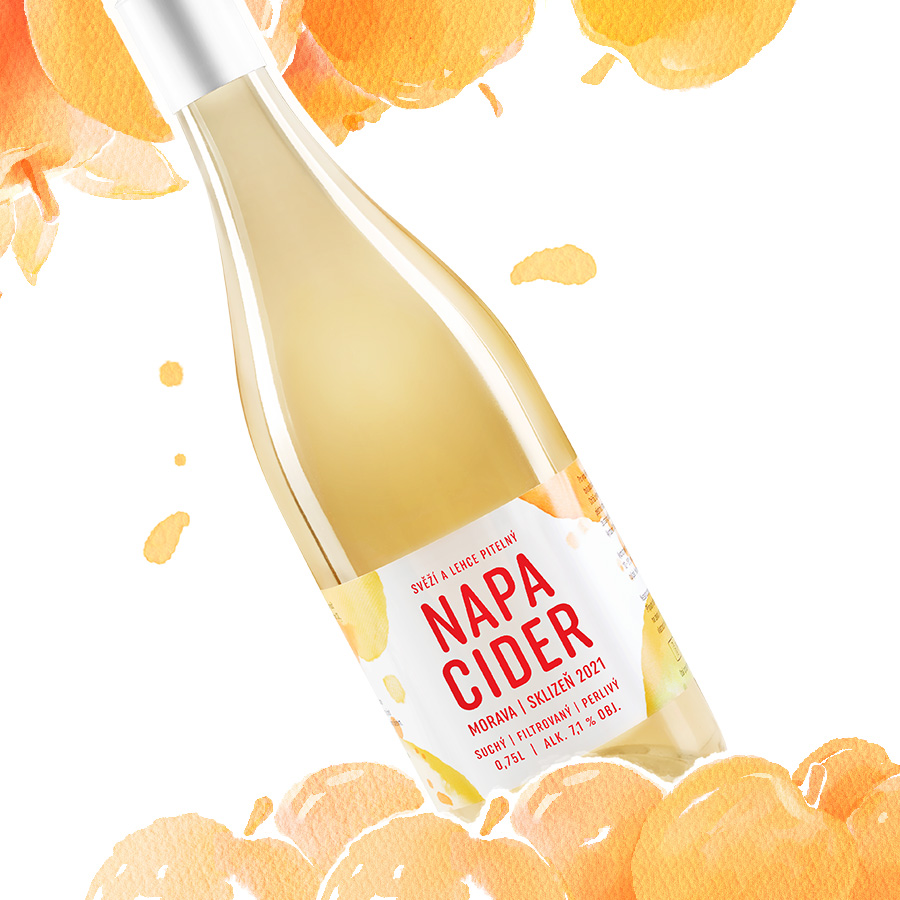
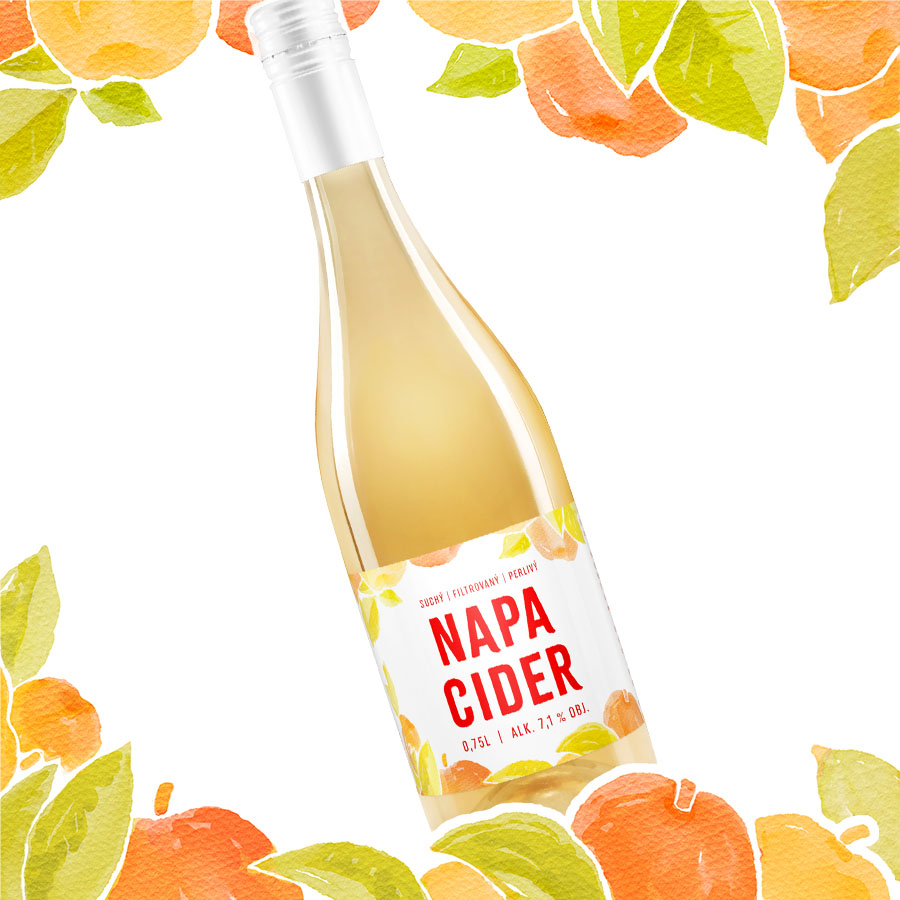
updat

diff --git a/index.html b/index.html
@@ -83,7 +83,7 @@
         <span class="intro-text--line-1">etuare</span>
         <span class="intro-text--line-2">grafické a&nbsp;produkční studio</span>
       </div>
-      <p class="intro-text--paragraph add-nbsp">„I v zemi zaslíbené je potřeba lidské práce. My tvoříme sny o dobrém jídle a pití.“ — Praotec Etuare</p>
+      <p class="intro-text--paragraph add-nbsp">„Tvoříme sny o dobrém jídle a pití.“ — Praotec Etuare</p>
     </div>
 
     <div class="section home--section--works">
@@ -110,9 +110,10 @@
       </div>
       <h2 class="home--section--services--heading">Co pro vás můžeme udělat?</h2>
       <p class="home--section--services--text">
-        Nabízíme škálů řešení od jednotlivostí jako design etiket, katalogů či webových stránek až po kompletní designové řešení firemní identity.
+        Vy nám řeknete co potřebujete a my navrhneme odpovídající řešení. <br>
+        Od jednotlivostí až po kompletní firemní identitu.
       </p>
-        <!-- unused probably forever, this was filled with JS via "new ServiceCardSmall(key)" construct -->
+        <!-- unused probably forever, this was filled with JS via "new ServiceCardSmall(key)" construct ↓ -->
         <!--  <div class="intro-text--services"> </div> -->
 
         <button class="intro-text--button" onclick="Page.applyState({page: 'services'});">
@@ -122,7 +123,7 @@
     </div>
 
     <!-- This is hidden cos it was kind of duplicit -->
-    <div class="section home--section--about hidden">
+    <!-- <div class="section home--section--about">
       <h1 class="home--section--about--heading">O nás</h1>
       <p class="home--section--about--text add-nbsp">Grafické a produkční studio ze Zlína, <br> které vám pomůže s vaší firemní identitou i propagací.
       </p>
@@ -132,7 +133,7 @@
           <div class="button-arrow right dark"></div>
         </button>
       </div>
-    </div>
+    </div> -->
   </div> <!-- page--home -->
 
 
@@ -145,14 +146,13 @@
     <div class="section services--section--intro">
       <h1 class="page-heading page-heading--services">Naše služby</h1>
       <div class="services--intro-text">
-        <p>
-          <span>Poskytujeme služby týkající se designu, propagace produktů a firemní identity. Dokážeme zařídit projekt od prvních návrhů až k finální realizaci.</span>
+        <p>Nejvíce nás baví obaly a etikety, ale navrhneme pro vás i loga, tiskoviny, reklamní materiály nebo www stránky. Zařídíme projekty od prvních návrhů až k finální realizaci.
         </p>
         <div></div>
-        <h3>Jak pracujeme</h3>
+        <!-- <h3>Jak pracujeme</h3>
         <p>
           Vytváříme designová řešení na míru. Vy nám řeknete co potřebujete, a my navrhneme odpovídající řešení. Každý však potřebuje něco jiného a vše je na domluvě, a tak nabízíme konzultace zdarma, pokud si nejste jistí tím co všechno vaše firma potřebuje, nebo jestli jsme pro vás ti praví. Stačí se ozvat.
-        </p>
+        </p> -->
       </div>
     </div>
 
@@ -163,7 +163,7 @@
     <div class="section services--section--we-dont-do-it-all">
       <h2>Neděláme všechno, ale...</h2>
       <p style="max-width: 720px;">
-        Dokážeme zajistit spolupráci s&nbsp;fotografy, ilustrátory, programátory, tiskárnami a&nbsp;dále; vše podle potřeb projektu, abyste měli jistotu, že se vše dokončí včas a&nbsp;správně.
+        Dokážeme zajistit spolupráci s&nbsp;fotografy, ilustrátory, programátory, tiskárnami atd. Vše podle potřeb projektu, abyste měli jistotu, že se vše dokončí správně a&nbsp;včas.
       </p>
       <div class="home--section--about--buttons">
         <button onclick="Page.applyState({page: 'about'})">
@@ -189,7 +189,6 @@
     <div class="section project--section--intro">
        <!-- JS --> 
     </div>
-
   </div> <!-- page--project -->
 
 
@@ -204,10 +203,10 @@
       </div>
       <h1 class="page-heading--about">O nás</h1>
       <div class="about--intro-text">
-        <p class="add-nbsp">Grafické a produkční studio ze Zlína. Nenechte se však se zmást; zlí nejsme. Pro naše klienty jsme tu již 22 let a ještě to nehodláme zabalit.
+        <p class="add-nbsp">Máme 20 let zkušeností a dlohodobé spolupráce s různého druhu - vinařství, výrobci kosmetiky, mražená zelenina, nealko/alko nápoje. Vše je samozřejmě na domluvě, a tak nabízíme konzultace zdarma, pokud si nejste jistí tím, co všechno potřebujete.
         </p>
-        <p class="add-nbsp">Studio Etuare vzniklo v roce 2004 s týmem Zbyněk Trvaj, Zdeněk Jurášek, David Bednařík, Jan Norek.
-        </p>
+        <!-- <p class="add-nbsp">Studio Etuare vzniklo v roce 2004 s týmem Zbyněk Trvaj, Zdeněk Jurášek, David Bednařík, Jan Norek.
+        </p> -->
       </div>
     </div>
 
@@ -225,16 +224,16 @@
 
     <div class="section about--section--contractors">
       <h2 class="page--heading--about" >Nejsme na to sami</h2>
-      <p style="max-width: 720px;">
+      <!-- <p style="max-width: 720px;">
         Spolupracujeme s&nbsp;fotografy, ilustrátory, tiskárnami a&nbsp;dále; vše podle potřeb projektu, abychom měli jistotu, že se vše dokončí správně a&nbsp;včas.
-      </p>
+      </p> -->
     </div>
 
     <div class="about--team--segment-2">
-      <div class="team--role--text hidden">
+      <!-- <div class="team--role--text">
         <h2 class="team--role--title">Externisté</h2>
         <p class="team--role--description add-nbsp">Nemají sice židli v kanceláři, ale stejně je považujeme za hodnotné kolegy a platíme jim za jejich práci.</p>
-      </div>
+      </div> -->
       <div class="about--people-container--contractor"> <!-- JS --> </div>
     </div>
 
@@ -260,7 +259,7 @@
 
   <footer style="display: none;">
     <h2 class="footer-heading">Kontakt</h2>
-    <p class="footer--description add-nbsp">U nás za dotaz nic nedáte. Obraťte se na nás s nezávazným dotazem či poptávkou a třeba se domluvíme, jestli jsme pro vás ti praví.
+    <p class="footer--description add-nbsp">Za dotaz nic nedáte. Obraťte se na nás s nezávaznou poptávkou a domluvíme se, jestli jsme pro vás ti praví. A nebo se u nás můžete stavit, pokud to máte po cestě (kafe zdarma, samozřejmě).
     </p>
     <div class="footer--content">
       <div class="footer--content--contacts" id="link--contact">

diff --git a/js/services.js b/js/services.js
@@ -3,8 +3,8 @@ class Services {
     "Obalový design": {
       key: "obalovy_design",
       blurb: "Specializujeme se na obaly pro potraviny, nápoje a kosmetiku.",
-      description: 
-      `Obalíme vaše obaly alobalem abychom je ochránili před útokem mimozemšťanů a reptiliánů.
+      description:
+      `Navrhneme design pro vaše obaly.
       • grafický návrh nových obalů
       • redesign stávajících obalů
       • návrh prodejních kartonů a stojanů
@@ -21,6 +21,7 @@ class Services {
         {src: "../images/carousel/obal_5.jpg",  projectName: "adria_gold", hasBrightBG: true, hasBrightSubject: true},
         {src: "../images/carousel/obal_10.jpg", projectName: "la_food", hasBrightBG: true},
         {src: "../images/carousel/obal_12.jpg", projectName: "", hasBrightBG: true},
+        {src: "../images/carousel/obal_13.jpg", projectName: "", hasBrightBG: false},
       ]
     },
 
@@ -33,7 +34,7 @@ class Services {
       `Navrhneme etiketu pro váš produkt, nebo sérii produktů.
       • etikety na láhve
       • dárkové krabičky
-      • + případná vizualizace produktů`,
+      • vizualizace produktů`,
       examples: [
         {src: "../images/carousel/obal_2.jpg",  projectName: "martenz", hasBrightBG: true},
         {src: "../images/carousel/etik_2.jpg",  projectName: "martenz", hasBrightBG: true},
@@ -53,7 +54,7 @@ class Services {
       key: "graficky_design",
       blurb: "Navrhneme letáky, katalogy, plakáty a další...",
       description: 
-      `Vytvoříme grafický návrh a správně připravíme tisková data.
+      `Vytvoříme grafický návrh a připravíme tisková data.
       • firemní tiskoviny - katalogy, nabídkové listy, vizitky atd.
       • inzeráty, billboardy, plakáty
       • prezentační stánky, polepy vozidel, POS materiály`,
@@ -76,7 +77,7 @@ class Services {
       key: "logo_design",
       blurb: "Vytvoříme logo pro vaši firmu či produkt.",
       description: 
-      `Navrhneme vám nebo zmodernizujeme:
+      `Navrhneme vám nebo zmodernizujeme
       • firemní logo a identitu
       • produktové logo
       • logo vaší akce`,
@@ -134,7 +135,7 @@ class Services {
       key: "3d_vizualizace",
       blurb: "Vytvoříme 3D vizualizace na míru pro jakýkoliv produkt.",
       description: 
-      `Připravíme vizualizace vašich produktů.
+      `Připravíme vizualizace vašich produktů
       • do katalogů
       • pro web a propagaci
       • pro další aplikace - roll-upy, firemní auta, stánky`,
@@ -155,7 +156,7 @@ class Services {
       description: 
       `Vytvoříme originální ilustrace pro váš projekt.
       • digitální ilustrace - lineart, airbrush, comicbook-style, corporate
-      • analogové ilustrace - akvarel, tužka, perokresba`,
+      • analogové ilustrace - akvarel, tužka, pastel, perokresba`,
       examples: [
         {src: "images/carousel/ilu_6.jpg",  projectName: "kralovske_marmelady", hasBrightBG: true,  tooltip: "Ilustrace pro značku marmelád"},
         {src: "images/carousel/ilu_4.jpg",  projectName: "kovacs",              hasBrightBG: true,  tooltip: "Ilustrace pro etiketu vína"},

diff --git a/js/project.js b/js/project.js
@@ -49,6 +49,7 @@ class Project {
       label.append(labelBorder)
 
 
+
       if(object.t === "heading") {
         const h = Create("h2", {c: "project--sub-heading", t: object.h})
         container.append(h)
@@ -166,6 +167,11 @@ class Project {
         /* add label */
         if(object.l) container.append(label)
       }
+
+      if(object.c !== undefined) {
+        container.style.backgroundColor = object.c
+      }
+
 
       /* THIS HAPPENS FOR EVERY BLOCK */
       content.append(container)
@@ -498,6 +504,15 @@ class Project {
           d: "column",
           f: ["hranolky_light.jpg", "hranolky_dark.jpg"]
         },
+        {
+          t: "heading",
+          h: "Polep kamionu",
+        },
+        {
+          t: "image",
+          d: "column",
+          f: ["kamion.jpg"]
+        },
       ],
     },
 
@@ -651,13 +666,15 @@ class Project {
     "napacider": {
       featured: true, brightOnHover: false,
       titleShort: "Napa cider",
-      title: "Napa cider - Řemeslný cider z Moravy",
+      title: "Napa cider",
       descriptionShort: "Vizuální identita pro řemeslný cider",
       description: "Napa cider je příjemné alkoholické letní občerstvení. Osvěžující dávka ovocné chuti, nic komplikovaného.  Skvělý pro posezení ve dvou na zahradě i večírek s přáteli. \n \n Pro Napa cider jsme dělali všechno, vlastně i ten cider, do kterého se pan Zbyněk pustil ve volném čase, když zrovna neměl co na práci.",
       content: [
         {
-          t: "image",
-          f: ["logo.png"],
+          t: "image_2",
+          l: "",
+          d: "column",
+          f: ["product_photo_sunny.jpg", "product_photo_studio.jpg"]
         },
         {
           t: "image_2",
@@ -680,6 +697,7 @@ class Project {
         },
         {
           t: "video",
+          c: "white",
           l: "Reklamní 'reels' video pro upoutání pozornosti, použití je možné na FB i Instagramu.",
           f: "video.mp4"
         },
@@ -803,6 +821,24 @@ class Project {
           o: {gap: "2px"},
           f: ["katalog_retail_1.jpg", "katalog_retail_2.jpg"],
           l: "Katalog pro retail/koncové zákazníky",
+        },
+        {
+          t: "heading",
+          h: "Další materiály"
+        },
+        {
+          t: "image_2",
+          d: "column",
+          o: {gap: "2px"},
+          f: ["kamion_bok_ryze.jpg", "kamion_bok_lusteniny.jpg"],
+          l: "",
+        },
+        {
+          t: "image_2",
+          d: "row",
+          o: {gap: "2px"},
+          f: ["stanek_2026_1.jpg", "stanek_2026_2.jpg"],
+          l: "",
         },
       ]
     },

diff --git a/style.css b/style.css
@@ -1175,7 +1175,7 @@ p.footer--description {
 /* Page services - SERVICE CARD */
 
 :root {
-  --service-card--width: min(1280px, 100vw);
+  --service-card--width: min(1280px, 100vw - 20px);
   --service-card--height: calc(var(--service-card--width) / 2.2);
 }
 
@@ -1921,7 +1921,9 @@ p.footer--description {
 }
 
 .project--video {
-  width: 50%;
+  width: 100%;
+  max-height: 84vh;
+  object-fit: contain;
 }
 
 .lightbox {
@@ -1963,6 +1965,10 @@ p.footer--description {
 /* TABLET LAYOUT */
 
 @media screen and (max-width: 1100px) {
+
+  :root {
+    --service-card--width: calc(100vw - 20px);
+  }
 
   .navlink {
     width: 100px;

diff --git a/js/about.js b/js/about.js
@@ -3,7 +3,7 @@ class Person {
     "Zbyněk Trvaj": {
       role: "employee",
       filename: "zbynek.jpg",
-      description: "Grafika, obalový design, DTP, marketing",
+      description: "Obalový design a grafika",
       portfolioLink: "",
     },
     "Štěpán Trvaj": {
